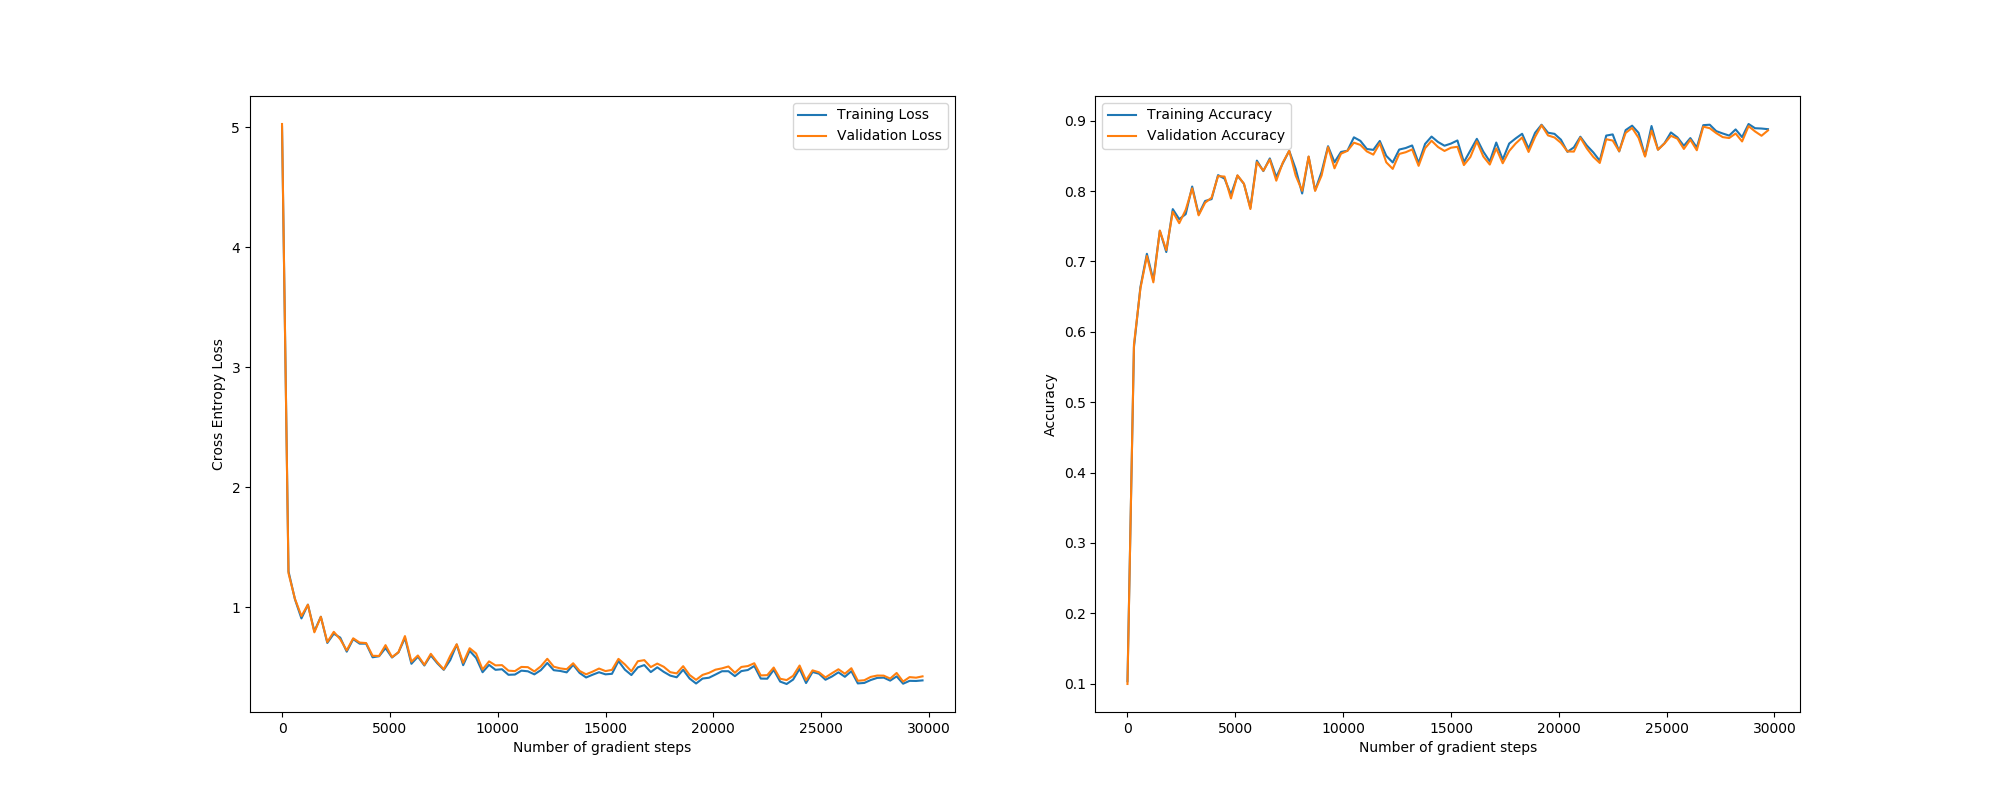
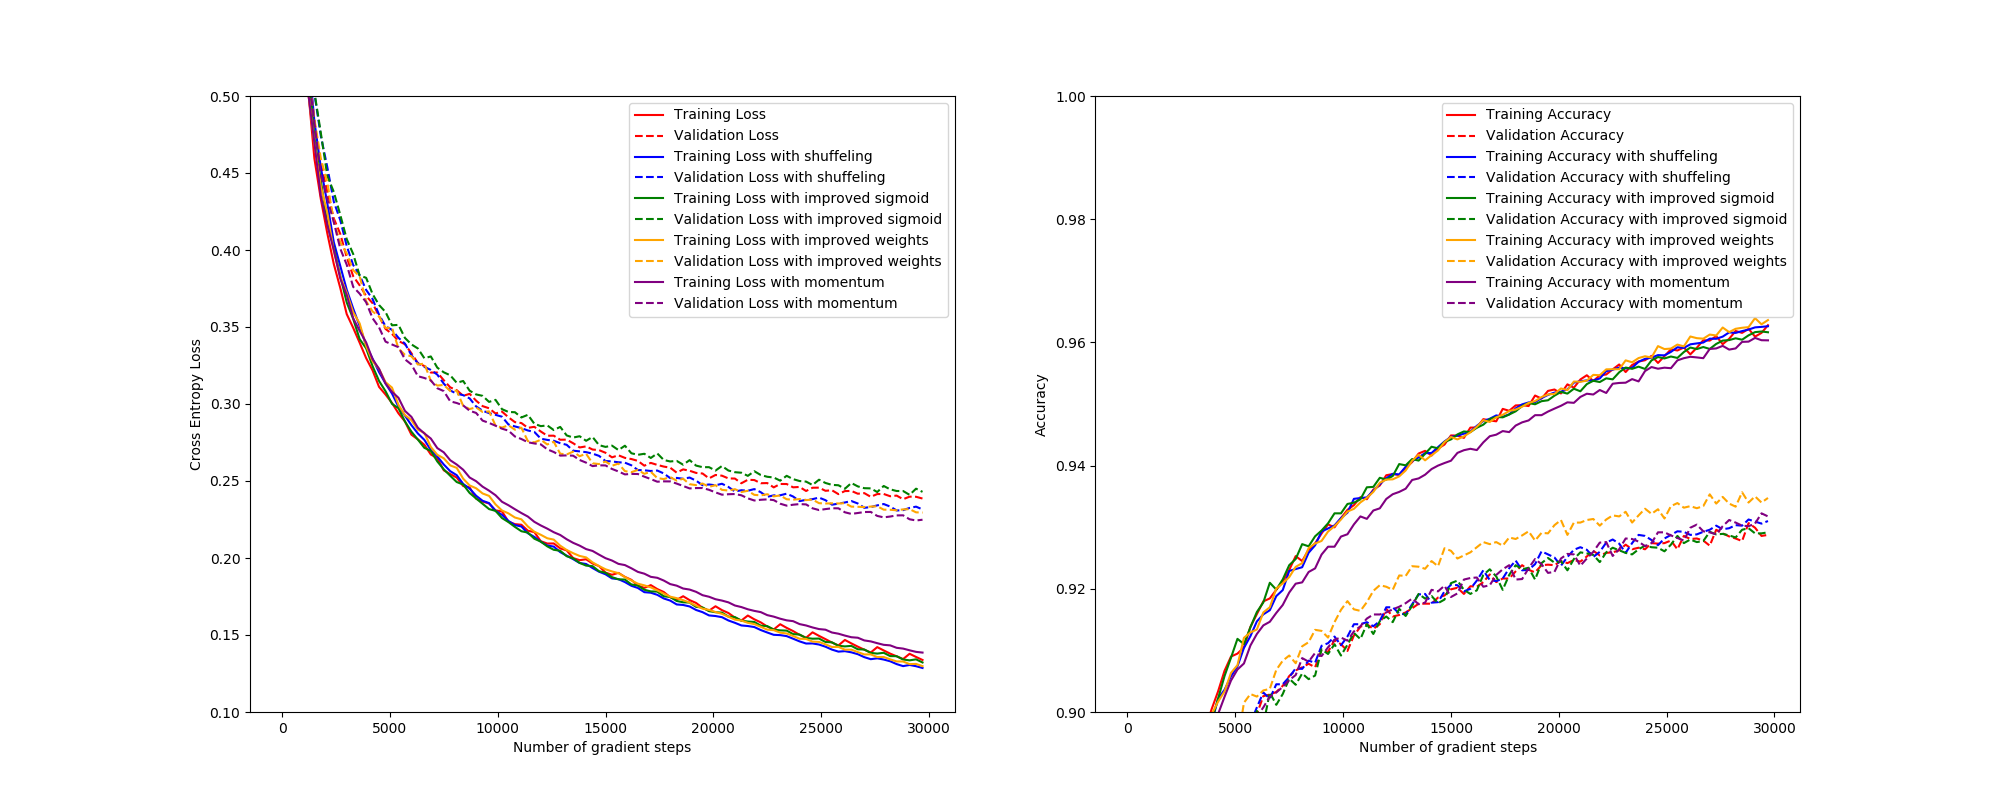
task 3

diff --git a/assignment2/task3.py b/assignment2/task3.py
@@ -16,7 +16,7 @@ def calculate_accuracy(X: np.ndarray, targets: np.ndarray,
     Returns:
         Accuracy (float)
     """
-    output = model.forward(X, use_improved_sigmoid)
+    output = model.forward(X)
     result_output = np.argmax(output, axis=1)
     target = np.argmax(targets, axis=1)
     correct = target == result_output
@@ -62,21 +62,25 @@ def train(
             X_batch, Y_batch = X_train[start:end], Y_train[start:end]
 
             # forward and backward pass
-            output = model.forward(X_batch, use_improved_sigmoid)
-            model.backward(X_batch, output, Y_batch, use_improved_sigmoid)
+            output = model.forward(X_batch)
+            model.backward(X_batch, output, Y_batch)
 
             # update weights
-            model.ws[0] = model.ws[0] - learning_rate * model.grads[0]
-            model.ws[1] = model.ws[1] - learning_rate * model.grads[1]
+            if use_momentum is True:
+                model.ws[0] = model.ws[0] - learning_rate * model.grads[0] - momentum_gamma * learning_rate * model.old_grads[0]
+                model.ws[1] = model.ws[1] - learning_rate * model.grads[1] - momentum_gamma * learning_rate * model.old_grads[1]
+            else:
+                model.ws[0] = model.ws[0] - learning_rate * model.grads[0]
+                model.ws[1] = model.ws[1] - learning_rate * model.grads[1]
 
             # Track train / validation loss / accuracy
             # every time we progress 20% through the dataset
             if (global_step % num_steps_per_val) == 0:
-                output_val = model.forward(X_val, use_improved_sigmoid)
+                output_val = model.forward(X_val)
                 _val_loss = cross_entropy_loss(Y_val, output_val)
                 val_loss[global_step] = _val_loss
 
-                output_train = model.forward(X_train, use_improved_sigmoid)
+                output_train = model.forward(X_train)
                 _train_loss = cross_entropy_loss(Y_train, output_train)
                 train_loss[global_step] = _train_loss
 
@@ -90,20 +94,6 @@ def train(
 
 
 if __name__ == "__main__":
-    # Load dataset
-    validation_percentage = 0.2
-    X_train, Y_train, X_val, Y_val, X_test, Y_test = utils.load_full_mnist(
-        validation_percentage)
-
-    # pre processing
-    mu = np.mean(X_train)
-    sigma = np.std(X_train)
-    X_train = pre_process_images(X_train, mu, sigma)
-    Y_train = one_hot_encode(Y_train, 10)
-    X_val = pre_process_images(X_val, mu, sigma)
-    Y_val = one_hot_encode(Y_val, 10)
-    X_test = pre_process_images(X_test, mu, sigma)
-    Y_test = one_hot_encode(Y_test, 10)
 
     # Hyperparameters
     num_epochs = 20
@@ -112,56 +102,82 @@ if __name__ == "__main__":
     neurons_per_layer = [64, 10]
     momentum_gamma = .9  # Task 3 hyperparameter
 
-    # Settings for task 3. Keep all to false for task 2.
-    use_shuffle = False
-    use_improved_sigmoid = False
-    use_improved_weight_init = False
-    use_momentum = False
-
-    model = SoftmaxModel(
-        neurons_per_layer,
-        use_improved_sigmoid,
-        use_improved_weight_init)
-    model, train_loss, val_loss, train_accuracy, val_accuracy = train(
-        model,
-        [X_train, Y_train, X_val, Y_val, X_test, Y_test],
-        num_epochs=num_epochs,
-        learning_rate=learning_rate,
-        batch_size=batch_size,
-        use_shuffle=use_shuffle,
-        use_momentum=use_momentum,
-        momentum_gamma=momentum_gamma)
-
-    print("Final Train Cross Entropy Loss:",
-          cross_entropy_loss(Y_train, model.forward(X_train, use_improved_sigmoid)))
-    print("Final Validation Cross Entropy Loss:",
-          cross_entropy_loss(Y_val, model.forward(X_val, use_improved_sigmoid)))
-    print("Final Test Cross Entropy Loss:",
-          cross_entropy_loss(Y_test, model.forward(X_test, use_improved_sigmoid)))
-
-    print("Final Train accuracy:",
-          calculate_accuracy(X_train, Y_train, model))
-    print("Final Validation accuracy:",
-          calculate_accuracy(X_val, Y_val, model))
-    print("Final Test accuracy:",
-          calculate_accuracy(X_test, Y_test, model))
+    bool_vector = np.array([False, False, False, False, False])
+    names = ["", "with shuffeling", "with improved sigmoid", "with improved weights", "with momentum"]
+    color = ["red", "blue", "green", "orange", "purple"]
 
     # Plot loss
-    plt.figure(figsize=(20, 8))
-    plt.subplot(1, 2, 1)
-    plt.ylim([0.1, 0.5])
-    utils.plot_loss(train_loss, "Training Loss")
-    utils.plot_loss(val_loss, "Validation Loss")
-    plt.xlabel("Number of gradient steps")
-    plt.ylabel("Cross Entropy Loss")
-    plt.legend()
-    plt.subplot(1, 2, 2)
+    fig = plt.figure(figsize=(20, 8))
+    ax1 = plt.subplot(1, 2, 1)
+    ax1.set_ylim([0.1, 0.5])
+    ax1.set_xlabel("Number of gradient steps")
+    ax1.set_ylabel("Cross Entropy Loss")
     # Plot accuracy
-    plt.ylim([0.9, 1.0])
-    utils.plot_loss(train_accuracy, "Training Accuracy")
-    utils.plot_loss(val_accuracy, "Validation Accuracy")
-    plt.legend()
-    plt.xlabel("Number of gradient steps")
-    plt.ylabel("Accuracy")
-    plt.savefig("softmax_train_graph_task3_shuffle.png")
-    plt.show()
+    ax2 = plt.subplot(1, 2, 2)
+    ax2.set_ylim([0.9, 1.0])
+    ax2.set_xlabel("Number of gradient steps")
+    ax2.set_ylabel("Accuracy")
+
+    for i in range(5):
+        # Load dataset
+        validation_percentage = 0.2
+        X_train, Y_train, X_val, Y_val, X_test, Y_test = utils.load_full_mnist(
+            validation_percentage)
+
+        # pre processing
+        mu = np.mean(X_train)
+        sigma = np.std(X_train)
+        X_train = pre_process_images(X_train, mu, sigma)
+        Y_train = one_hot_encode(Y_train, 10)
+        X_val = pre_process_images(X_val, mu, sigma)
+        Y_val = one_hot_encode(Y_val, 10)
+        X_test = pre_process_images(X_test, mu, sigma)
+        Y_test = one_hot_encode(Y_test, 10)
+
+        # Settings for task 3. Keep all to false for task 2.
+        use_shuffle = bool_vector[0]
+        use_improved_sigmoid = bool_vector[1]
+        use_improved_weight_init = bool_vector[2]
+        use_momentum = bool_vector[3]
+
+        model = SoftmaxModel(
+            neurons_per_layer,
+            use_improved_sigmoid,
+            use_improved_weight_init)
+        model, train_loss, val_loss, train_accuracy, val_accuracy = train(
+            model,
+            [X_train, Y_train, X_val, Y_val, X_test, Y_test],
+            num_epochs=num_epochs,
+            learning_rate=learning_rate,
+            batch_size=batch_size,
+            use_shuffle=use_shuffle,
+            use_momentum=use_momentum,
+            momentum_gamma=momentum_gamma)
+
+        print("Final Train Cross Entropy Loss:",
+              cross_entropy_loss(Y_train, model.forward(X_train)))
+        print("Final Validation Cross Entropy Loss:",
+              cross_entropy_loss(Y_val, model.forward(X_val)))
+        print("Final Test Cross Entropy Loss:",
+              cross_entropy_loss(Y_test, model.forward(X_test)))
+
+        print("Final Train accuracy:",
+              calculate_accuracy(X_train, Y_train, model))
+        print("Final Validation accuracy:",
+              calculate_accuracy(X_val, Y_val, model))
+        print("Final Test accuracy:",
+              calculate_accuracy(X_test, Y_test, model))
+
+        utils.plot_loss(train_loss, "Training Loss" + " " + names[i], ax = ax1, c = color[i], ls = "-")
+        utils.plot_loss(val_loss, "Validation Loss" + " " + names[i], ax = ax1, c = color[i], ls = "--")
+
+        utils.plot_loss(train_accuracy, "Training Accuracy"  + " " + names[i], ax = ax2, c = color[i], ls = "-")
+        utils.plot_loss(val_accuracy, "Validation Accuracy" + " " + names[i], ax = ax2, c = color[i], ls = "--")
+
+        print(use_shuffle, use_improved_sigmoid, use_improved_weight_init, use_momentum)
+        #bool_vector[i] = True
+
+    ax1.legend()
+    ax2.legend()
+    fig.savefig("softmax_train_graph_task3_alloff.png")
+    fig.show()

diff --git a/assignment2/task3a.py b/assignment2/task3a.py
@@ -1,6 +1,7 @@
 import numpy as np
 import utils
 import typing
+import copy
 np.random.seed(1)
 
 def sigmoid(z):
@@ -83,12 +84,16 @@ class SoftmaxModel:
         for size in self.neurons_per_layer:
             w_shape = (prev, size)
             print("Initializing weight to shape:", w_shape)
-            w = np.random.uniform(low=-1, high=1, size=w_shape )
+            if use_improved_weight_init is True:
+                w = np.random.normal(0, 1/np.sqrt(prev), size=w_shape)
+            else:
+                w = np.random.uniform(low=-1, high=1, size=w_shape )
             self.ws.append(w)
             prev = size
         self.grads = [None for i in range(len(self.ws))]
+        self.old_grads = [None for i in range(len(self.ws))]
 
-    def forward(self, X: np.ndarray, use_improved_sigmoid: bool) -> np.ndarray:
+    def forward(self, X: np.ndarray) -> np.ndarray:
         """
         Args:
             X: images of shape [batch size, 785]
@@ -105,7 +110,7 @@ class SoftmaxModel:
             z = y.dot(w)
             zs.append(z)
             if i == 1:
-                if use_improved_sigmoid is True:
+                if self.use_improved_sigmoid is True:
                     y = improved_sigmoid(z)
                 else:
                     y = sigmoid(z)
@@ -117,7 +122,7 @@ class SoftmaxModel:
         return y
 
     def backward(self, X: np.ndarray, outputs: np.ndarray,
-                 targets: np.ndarray, use_improved_sigmoid: bool) -> None:
+                 targets: np.ndarray) -> None:
         """
         Args:
             X: images of shape [batch size, 785]
@@ -128,6 +133,7 @@ class SoftmaxModel:
             f"Output shape: {outputs.shape}, targets: {targets.shape}"
         # A list of gradients.
         # For example, self.grads[0] will be the gradient for the first hidden layer
+        self.old_grads = copy.deepcopy(self.grads)
         self.grads = []
 
         # Output layer backpropagation
@@ -135,7 +141,7 @@ class SoftmaxModel:
         dC_dw2 = np.dot(np.transpose(ys[1]), delta_k) / len(X)
 
         # Hidden layer backpropagation
-        if use_improved_sigmoid is True:
+        if self.use_improved_sigmoid is True:
             delta_j = improved_sigmoid_prime(zs[0]) * np.dot(delta_k, np.transpose(self.ws[1]))
         else:
             delta_j = sigmoid_prime(zs[0]) * np.dot(delta_k, np.transpose(self.ws[1]))

diff --git a/assignment2/utils.py b/assignment2/utils.py
@@ -44,7 +44,7 @@ def load_full_mnist(val_percentage: float):
     return X_train, Y_train, X_val, Y_val, X_test, Y_test
 
 
-def plot_loss(loss_dict: dict, label: str = None, fmt="-"):
+def plot_loss(loss_dict: dict, label: str = None, fmt="-", ax = None, c = None, ls = None):
     """
     Args:
         loss_dict: a dictionary where keys are the global step and values are the given loss / accuracy
@@ -52,4 +52,7 @@ def plot_loss(loss_dict: dict, label: str = None, fmt="-"):
     """
     global_steps = list(loss_dict.keys())
     loss = list(loss_dict.values())
-    plt.plot(global_steps, loss, fmt, label=label)
+    if ax is None:
+        plt.plot(global_steps, loss, fmt, label=label)
+    else:
+        ax.plot(global_steps, loss, fmt, label=label, color = c, linestyle = ls)
